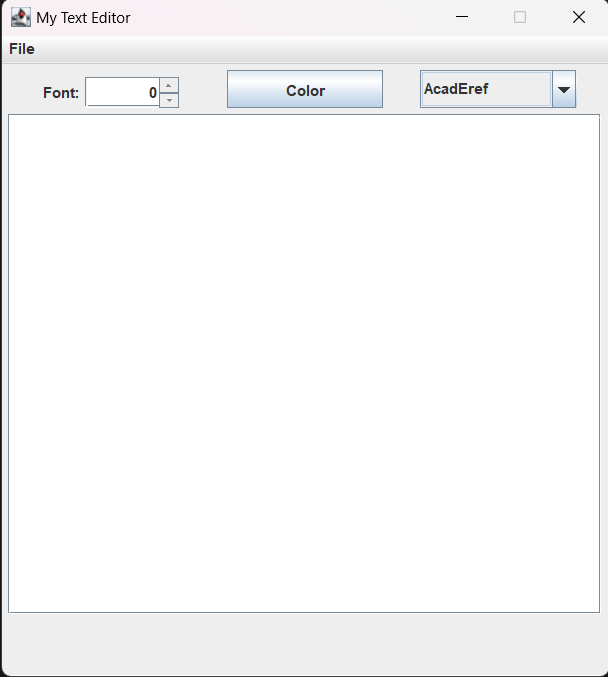
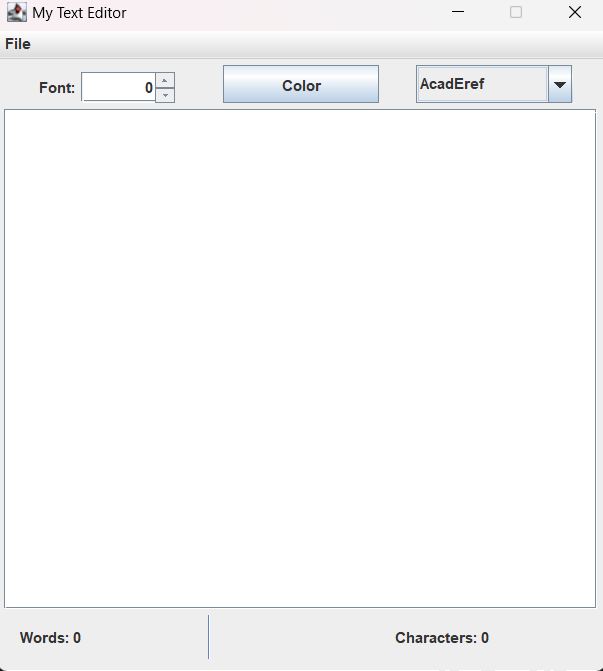
words counter & character counter added

diff --git a/src/TextEditor.java b/src/TextEditor.java
@@ -4,11 +4,16 @@ import java.awt.FlowLayout;
 import java.awt.Font;
 import java.awt.GraphicsEnvironment;
 import java.awt.GridLayout;
+import java.awt.event.KeyEvent;
+import java.awt.event.KeyListener;
 
 import java.io.File;
 import java.io.FileWriter;
 import java.io.IOException;
+
 import java.util.Scanner;
+import java.util.regex.Pattern;
+import java.util.regex.Matcher;
 
 import javax.swing.JButton;
 import javax.swing.JColorChooser;
@@ -35,6 +40,11 @@ public class TextEditor extends JFrame {
 	private JTextArea textArea;
 	private JFileChooser fileChooser;
 	private String filePath;
+	private int words;
+	private int characters;
+	JLabel WCounter;
+	JLabel CCounter;
+	final String regex = "(\\d\\w+|[0-9])";
 	
 	//private Font textFont;
 	
@@ -62,6 +72,7 @@ public class TextEditor extends JFrame {
 		this.setJMenuBar(addMenu());
 		this.add(addTopPanel());
 		this.add(addTextAreaToScroll());
+		this.add(addFooterPanel());
 		
 	}
 	
@@ -242,6 +253,26 @@ public class TextEditor extends JFrame {
 		UserEnteredTextBox.setBackground(Color.WHITE);
 		UserEnteredTextBox.setLineWrap(true);
 		UserEnteredTextBox.setWrapStyleWord(true);
+
+		UserEnteredTextBox.addKeyListener(new KeyListener() {
+			@Override
+			public void keyTyped(KeyEvent arg0) {
+				
+			}
+		
+			@Override
+			public void keyReleased(KeyEvent arg0) {
+				// TODO Auto-generated method stub
+				
+				refreshFooter();
+			}
+		
+			@Override
+			public void keyPressed(KeyEvent arg0) {
+					
+		
+			}
+		});
 		
 		return UserEnteredTextBox;
 	}
@@ -264,9 +295,53 @@ public class TextEditor extends JFrame {
 		
 		return fontSizePanel;
 	}
+
+	JPanel addFooterPanel(){
+		JPanel footer = new JPanel();
+		WCounter = new JLabel("Words: 0");
+		CCounter = new JLabel("Characters: 0");
+
+		footer.setPreferredSize(new Dimension(450,35));
+		//footer.setBackground(Color.white);
+
+		words = 0;
+		characters = 0;
+
+		footer.setLayout(new GridLayout(1,2));
+		footer.add(WCounter);
+		footer.add(new JSeparator(SwingConstants.VERTICAL));
+		footer.add(CCounter);
+
+		return footer;
+	}
 	
 	void refreshtextArea() {
 		textArea.setFont(new Font(fontName, Font.PLAIN, fontSize));
 		textArea.setForeground(textColor);
+	}
+
+	void refreshFooter(){
+		String x = textArea.getText();
+		int spaces =0;
+		characters = 0;
+		words =0;
+        x = x.trim();
+		for(char i:x.toCharArray()){
+			if(i==' ')
+				spaces++;
+		}
+
+		characters = x.length()- spaces;
+		words = characters !=0 ? spaces+1:0;
+		Pattern r = Pattern.compile(regex);
+		Matcher m = r.matcher(WCounter.getText());
+
+		if(m.find())
+		WCounter.setText(WCounter.getText().replace(m.group(1), Integer.toString(words)));
+		
+		m = r.matcher(CCounter.getText());
+		
+		if(m.find())
+		CCounter.setText(CCounter.getText().replace(m.group(1), Integer.toString(characters)));
 	}
 }

diff --git a/README.md b/README.md
@@ -9,7 +9,7 @@ also if you have a suggestion or something you see it is best to change you are 
 [Eclipse IDE][Eclipse Website]
 
 ## UI Screenshots
-![FrontUI]
+![FrontUI]  
 ![FileOptionsMenu]
 
 
